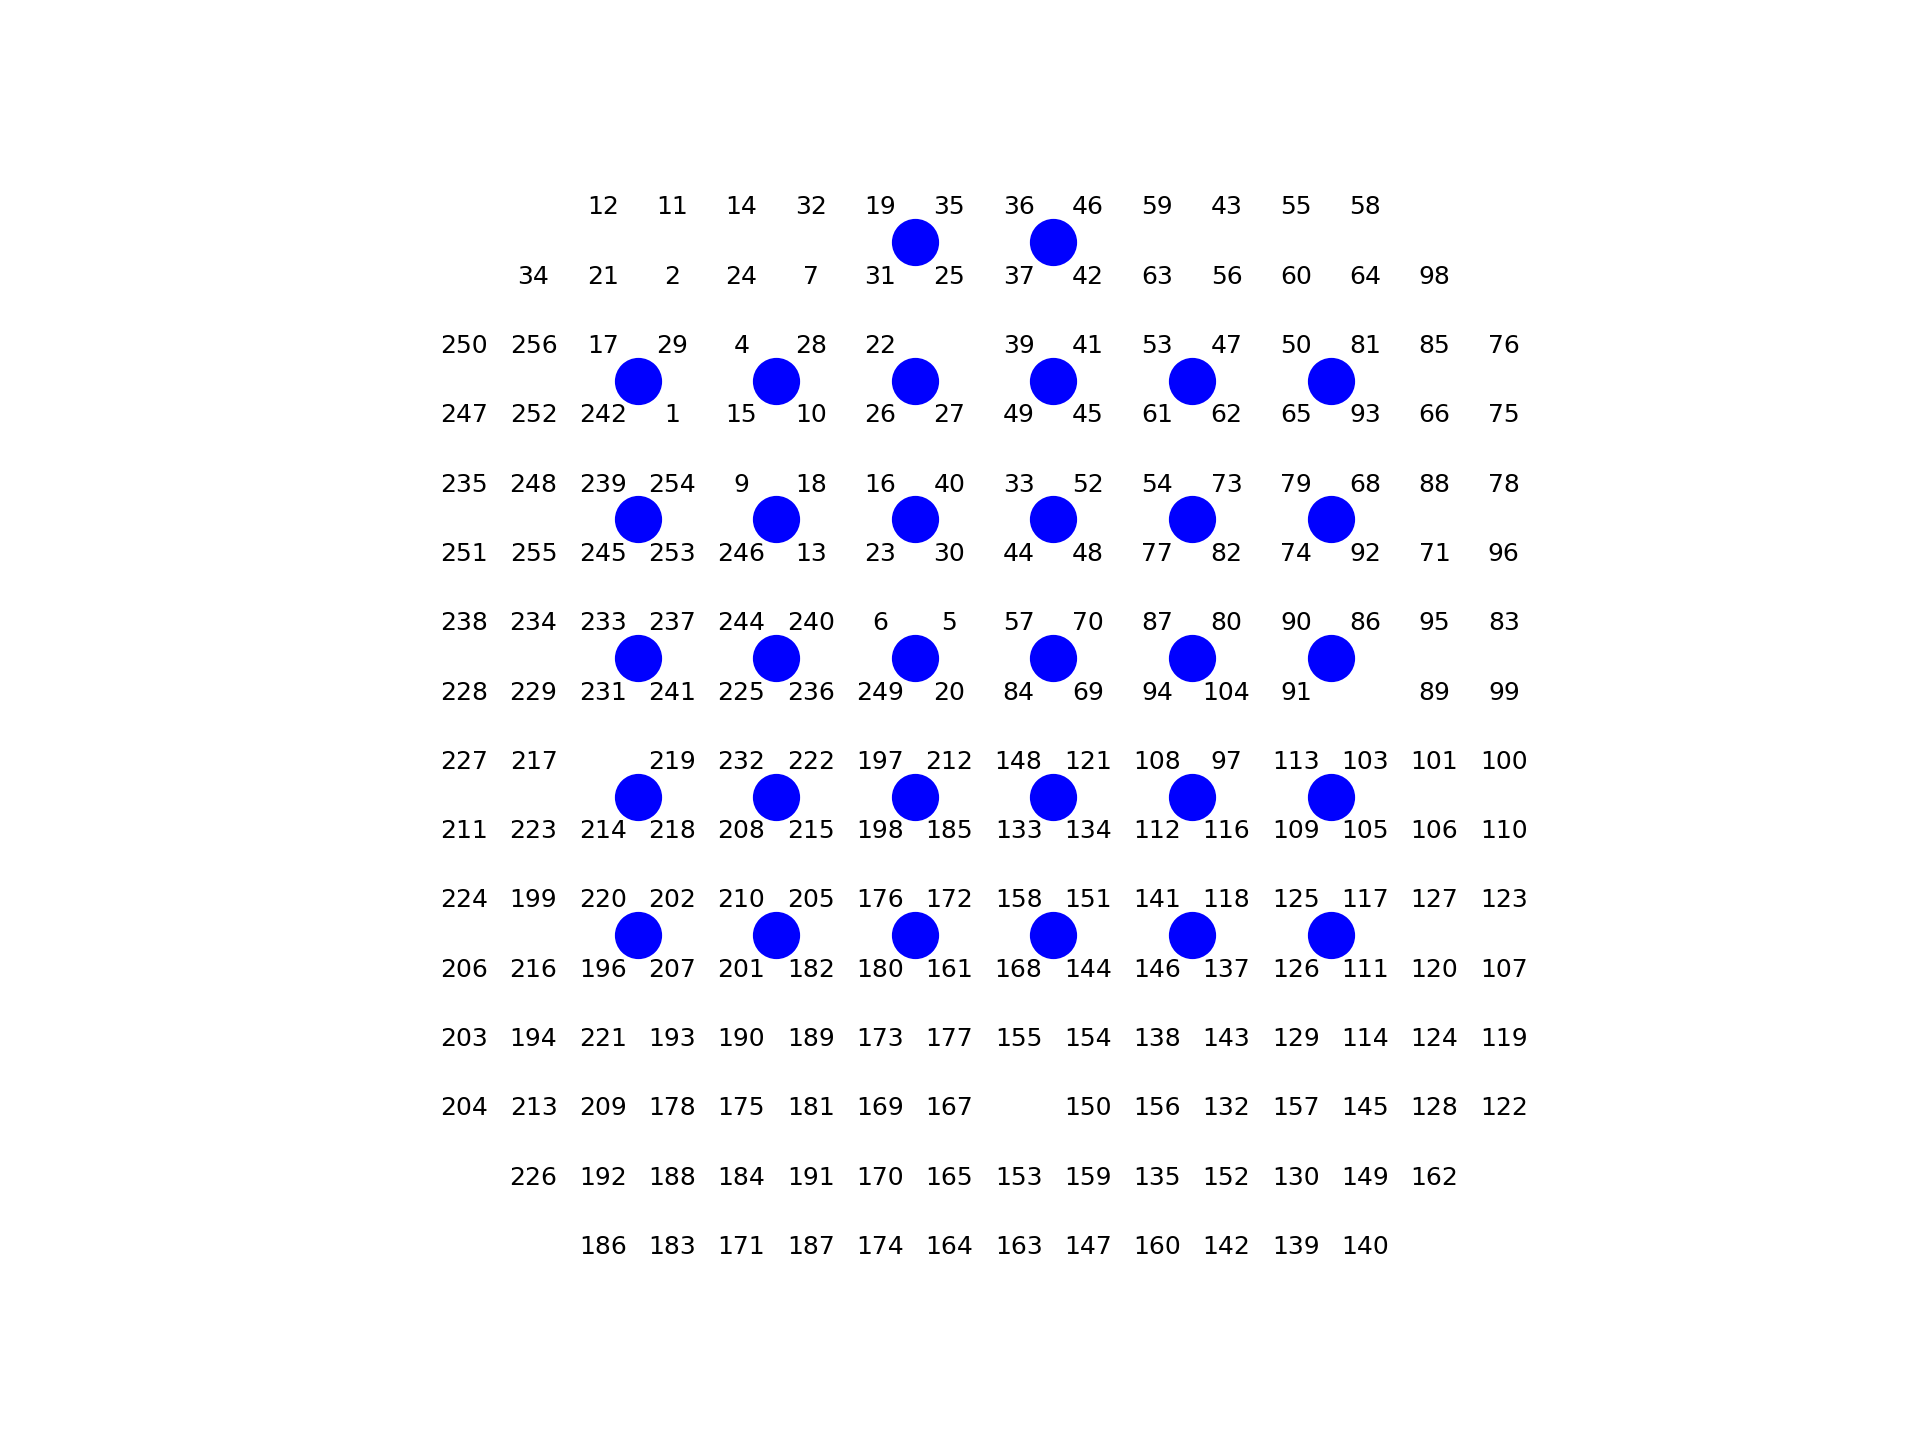
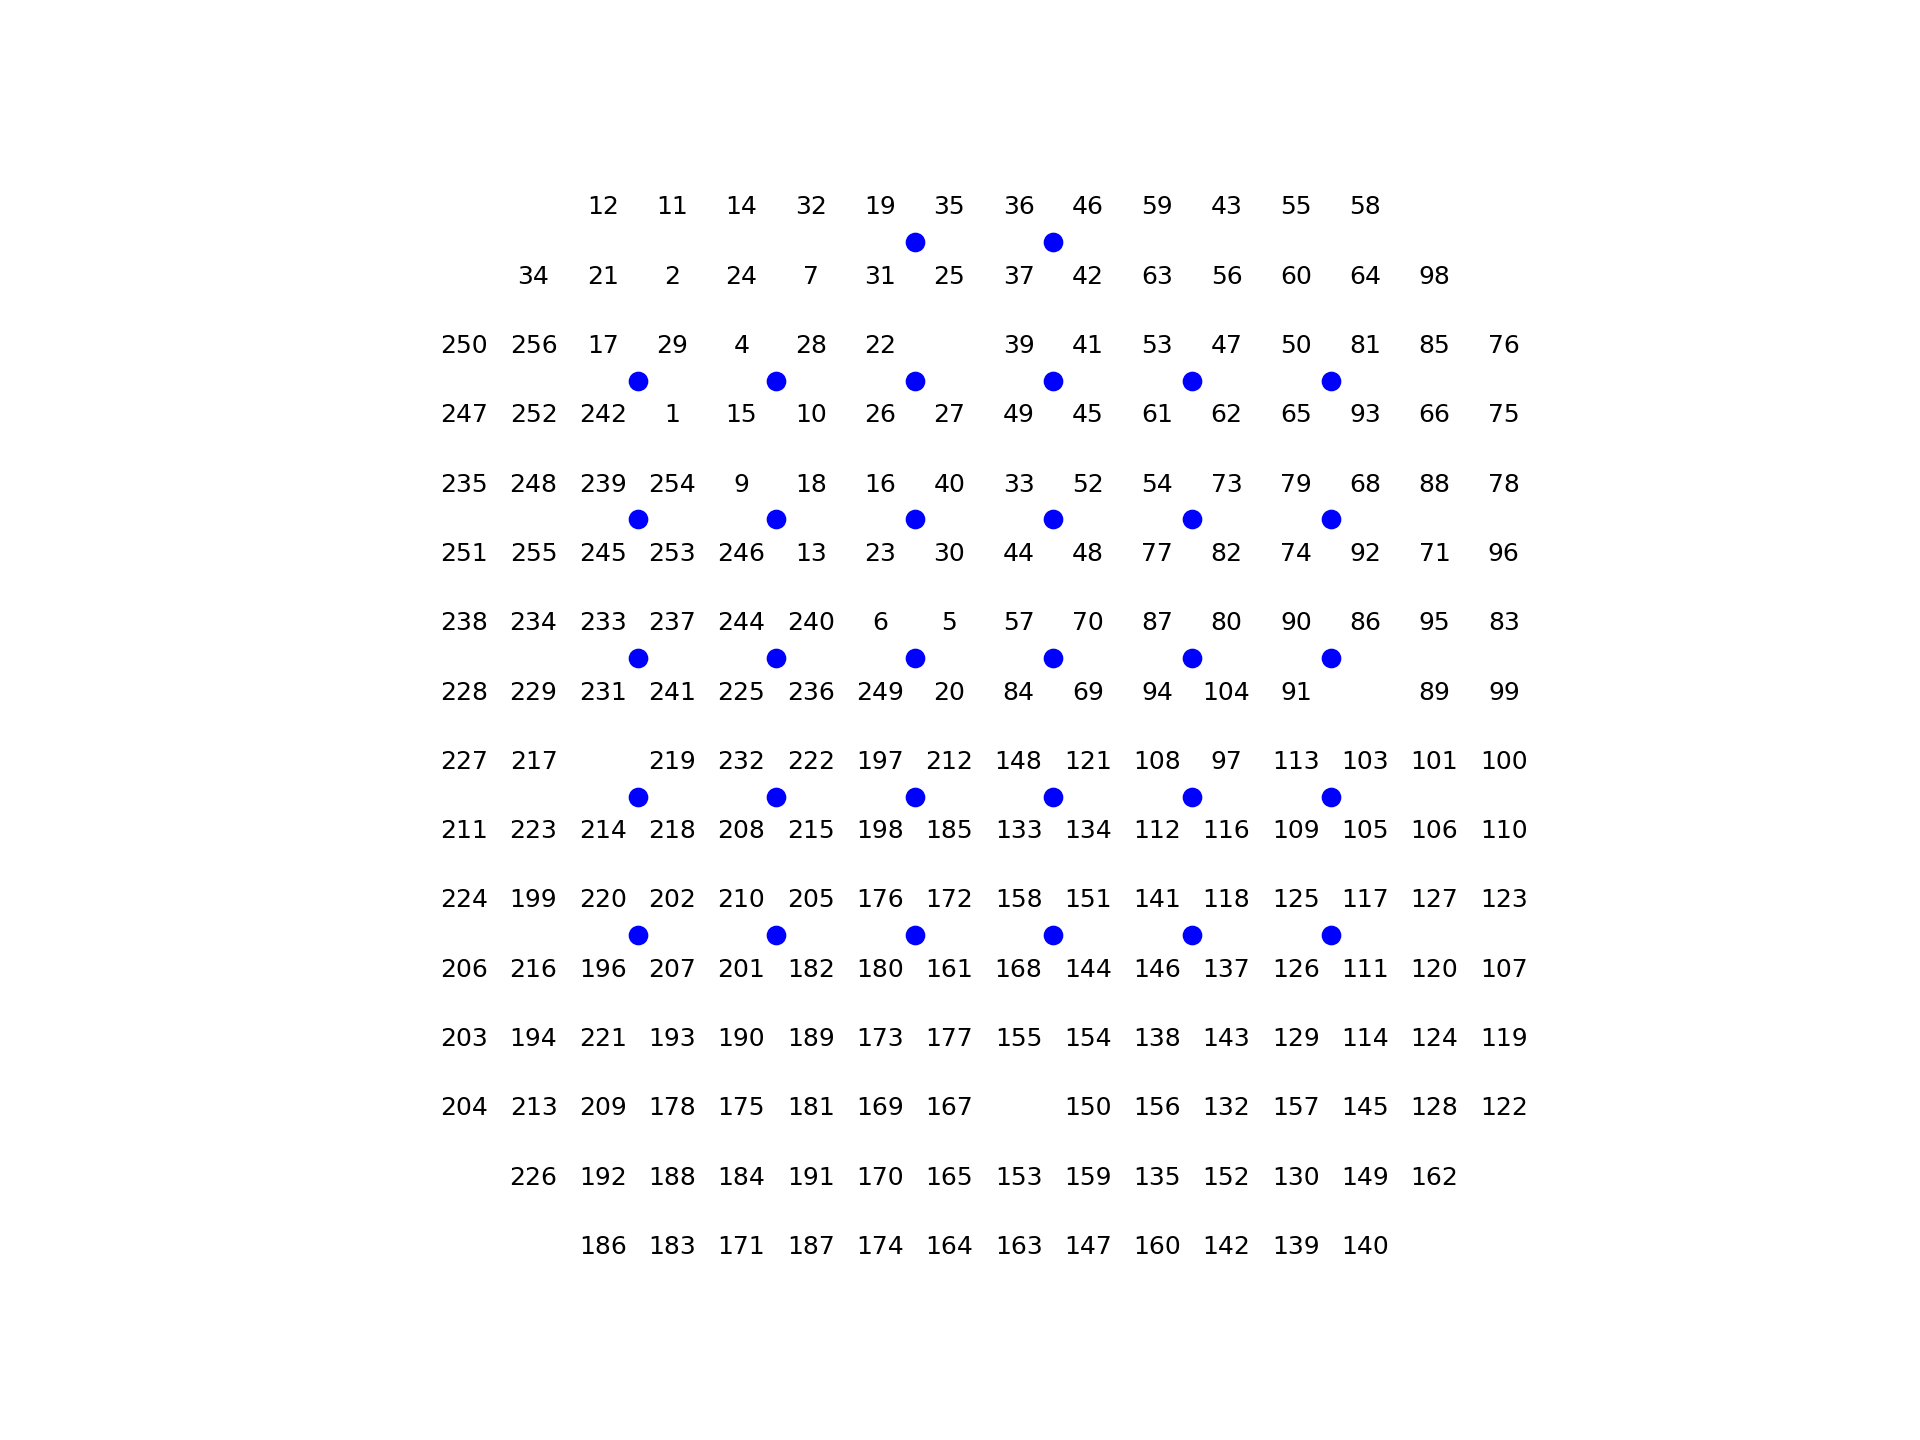
make annotation size independent of dpi

diff --git a/aopy/visualization/base.py b/aopy/visualization/base.py
@@ -860,7 +860,8 @@ def annotate_spatial_map(elec_pos, text, color, annotation_style='text', fontsiz
     if annotation_style == 'text':
         return ax.annotate(text, elec_pos, color=color, fontsize=fontsize, ha='center', va='center', **kwargs)
     elif annotation_style == 'marker':
-        scale = ax.transData.get_matrix()[0,0] # data units (x-axis) to points
+        scale = ax.transData.get_matrix()[0,0] # data units (x-axis) to display units (pixels)
+        scale *= 72.0 / ax.get_figure().dpi # convert pixels to points
         marker_obj = MarkerStyle(marker)
         marker_width = marker_obj.get_path().transformed(marker_obj.get_transform()).get_extents().width
         return ax.plot(elec_pos[0], elec_pos[1], marker=marker, color=color, 
@@ -2765,7 +2766,7 @@ def overlay_sulci_on_spatial_map(subject, chamber, drive_type, theta=0, center=(
 def plot_annotated_spatial_drive_map_stim(data, stim_site, subject, chamber, theta, elec_data=True, 
                                           interp=True, grid_size=(16,16), cmap='viridis', clim=None, 
                                           colorbar=True, annotation_style='marker', fontsize=8, marker='D',
-                                          markersize=0.5, color='w', recording_drive_type='ECoG244', 
+                                          markersize=1.0, color='w', recording_drive_type='ECoG244', 
                                           stim_drive_type='Opto32', ax=None, **kwargs):
     '''
     Stimulation-specific version of :func:`plot_spatial_drive_map` that includes annotations for the stimulation site,
